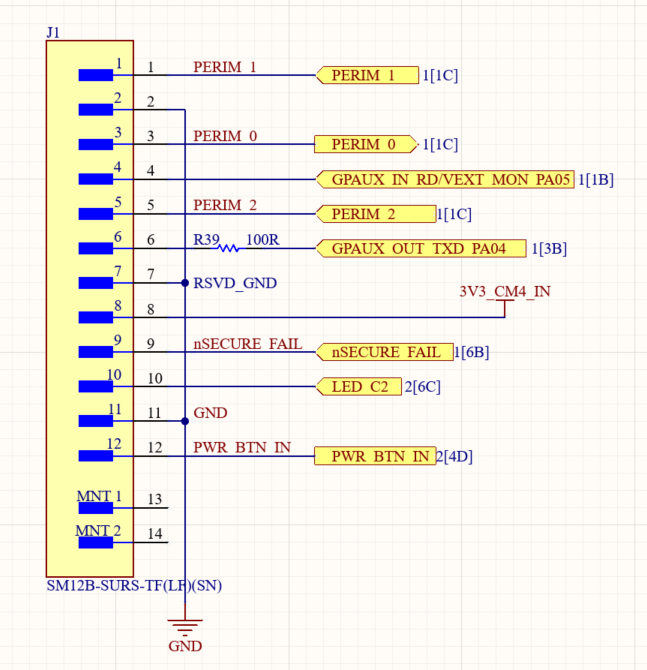
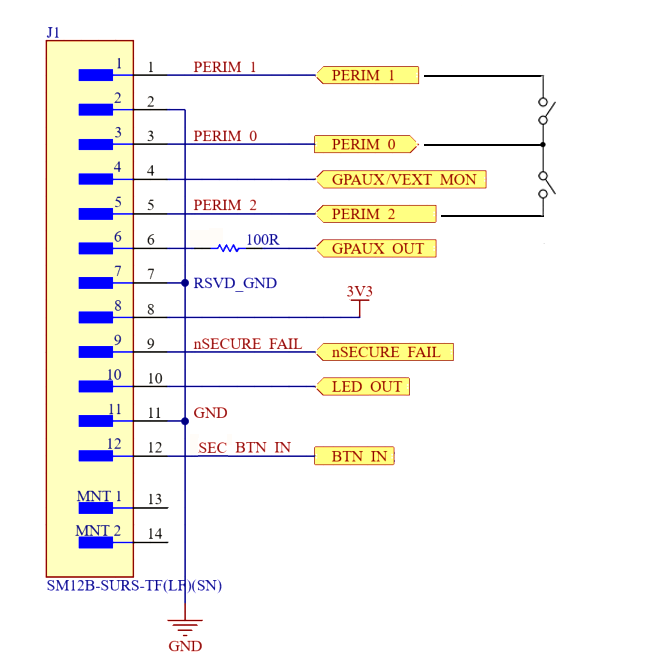
Zk5/HSM60/SEN500 J2 connector updates (#264)
* Add pinout corrections

* Added footnotes

* Forgot colon in footnote definition block

* Re-scale overly large GPIO pinout image

* missed closing double-quotes

* Hugo wouldn't take a width percentage, switching to embedded html

* One more try without double-quotes

* %22 left after .png

* Add in SEN refs and make consistent

diff --git a/content/hardware/components/sbb/index.md b/content/hardware/components/sbb/index.md
@@ -473,7 +473,28 @@ The pinout for J2:
 {{< /card >}}
 {{< /cardpane >}}
 
-To close a tamper loop, PERIM0 is the TX and PERIM1/PERIM2 are the RX. Connecting PERIM0 to either of the RX lines completes the tamper for the associated loop.  This is not simply a constant voltage, it is a pseudo random encoded sequence.
+| Pin Number | Pin Name | Description |
+| --- | --- | --- |
+| 1 | PERIM_1 | Tamper detection loop 1 receive |
+| 2 | GND | System ground |
+| 3 | PERIM_0 | Tamper detection transmit.  Connect this pin to PERIM_1 and/or PERIM_2 |
+| 4 | GPAUX_IN | Auxiliary input (digital or analog, 1k R in series) [^1] |
+| 5 | PERIM_2 | Tamper detection loop 2 receive |
+| 6 | GPAUX_OUT_TXD | Auxiliary output (digital, 100ohm R in series) [^1] |
+| 7 | RSVD_GND | Ground pin do not use (reserved) |
+| 8 | 3V3 | 3.3V output from HSM60 voltage regulator. Powered from 5V, on when Pi is shut down [^2] |
+| 9 | nSECURE_FAIL | Open drain security fault indicator; 12V max |
+| 10 | LED_OUT | Open drain blue LED indicator; 12V max |
+| 11 | GND | System ground |
+| 12 | PWR_BTN_IN | Secure button input. 3.3V max. Connect between the pin and ground |
+
+- Tamper detection pins (pins 1, 3, 5): To close a tamper loop, PERIM0 is the TX and PERIM1/PERIM2 are the RX.  So connecting PERIM0 to either of the RX lines completes the tamper for the associated loop.  This is not simply a constant voltage, it is a pseudo random encoded sequence. Breaking this loop will trigger a tamper detection security event
+- GPAUX pins (pins 4, 6): these are general purpose auxiliary pins passed through from the HSM60.  These pins are currently reserved for future use
+- 3V3 power (pin 8): This is the 3.3V power output that comes from the Raspberry Pi Compute Module
+- Security indicator signals (pins 9, 10): These are typically used to drive LEDs which indicate the security status of the device.  Note these pins are used together and typically drive a red/blue LED. These pins are currently reserved for future use
+- nSECURE_FAIL: indicates a security fault
+- If there is a security fault but the LED_C2 is still active, this means a noncritical security failure.  If the LED_C2 is not active at the same time this means a critical security fault and the system is not operational anymore
+- LED_C2:  Zymbit’s security status LED.  When being used with the SCM4 or CM5 + Interposer, this will blink a pattern to give its status (see [SCM LED Reference](https://docs.zymbit.com/troubleshooting/scm/#led-reference) for details)
 
 Perimeter 1:  To use perimeter loop 1 (connected to internal tamper switches) on the auxiliary connector, solder bridge the pads R120 where is reads PERIM1 CONNECT on the BOTTOM side of the board.  Because it is still connected to the tamper switches, to see a tamper event on this channel in this case, the tamper switches must be opened AND the auxiliary connection must also be broken.
 
@@ -500,23 +521,6 @@ Perimeter 2:  To use perimeter loop 2 on the auxiliary connector, cut the tab in
 
 Perimeter 0 is the transmit, and the associated perimeters 1 and 2 are the receive loops.
 
-#### Auxiliary Connector (J2)
-
-{{< cardpane >}}
-{{< card header="J2 Pinout" >}}
-{{< figure
-    src="j2_pinout.png"
-    alt="J2 Pinout"
-    caption=""
-    >}}
-{{< /card >}}
-{{< /cardpane >}}
-
-- For tamper detection pins (pins 1, 3, 5) please see the previous section
-- ZIO pins (pins 4, 6) these are general purpose auxiliary pins passed through from the Zymbit HSM.  These pins are currently reserved for future use
-- 3V3 power (pin 8): This is the 3.3V power output that comes from the Raspberry Pi Compute Module
-- Security indicator signals (pins 9, 10): These are the signals used to drive the LEDs on the front panel.  Please see LED indicator section for details.  Example use to drive LEDs:
-- Power button input:  This pin connects to the Power button pin on the compute module after going through the HSM.  Pull this pin low to activate.  Please see the power button section for functionality.
     
 {{< cardpane >}}
 {{< card header="Security Header Pins" >}}
@@ -670,4 +674,10 @@ If the user has other IO on the normal I2C lines (GPIO2 and GPIO3) of the 40-pin
 - [Raspberry Pi CM4 Datasheet](https://datasheets.raspberrypi.com/cm4/cm4-datasheet.pdf)
 - [Raspberry Pi Compute Module 5 IO Board Datasheet](https://datasheets.raspberrypi.com/cm5/cm5io-datasheet.pdf)
 - [Raspberry Pi CM5 Datasheet](https://datasheets.raspberrypi.com/cm5/cm5-datasheet.pdf)
+
+
+### Footnotes
+
+[^1]: Firmware revision dependent.
+[^2]: Caution: Incorrect use may cause damage to the Zymbit HSM and/or possibly the host. This is not from the Pi 3V3. It comes from the Zymbit HSM voltage regulator. 20 mA output only.
 

diff --git a/content/hardware/modules/hsm60/index.md b/content/hardware/modules/hsm60/index.md
@@ -185,19 +185,18 @@ This connector is a 12 pin JST SURS connector ([SM12B-SURS-TF(LF)(SN)](https://w
 
 | Pin Number | Pin Name | Description |
 | --- | --- | --- |
-| 1 | PERIM_1 | Tamper detection loop 1 recieve |
+| 1 | PERIM_1 | Tamper detection loop 1 receive |
 | 2 | GND | System ground |
 | 3 | PERIM_0 | Tamper detection transmit.  Connect this pin to PERIM_1 and/or PERIM_2 |
-| 4 | GPAUX_IN_RD/
-VEXT_MON | General purpose auxiliary recieve (future use) and external voltage monitor pin (future use) |
-| 5 | PERIM_2 | Tamper detection loop 2 recieve |
-| 6 | GPAUX_OUT_TXD | General purpose auxiliary transmit (future use) |
-| 7 | RSVD_GND | Ground pin that is reserved for potential future use. |
-| 8 | 3V3_CM4 | 3.3V output from the Raspberry Pi |
-| 9 | nSECURE_FAIL | Zymbit security fault indicator |
-| 10 | LED_C2 | Zymbit’s security status LED |
+| 4 | GPAUX_IN | Auxiliary input (digital or analog, 1k R in series) [^1] |
+| 5 | PERIM_2 | Tamper detection loop 2 receive |
+| 6 | GPAUX_OUT_TXD | Auxiliary output (digital, 100ohm R in series) [^1] |
+| 7 | RSVD_GND | Ground pin do not use (reserved) |
+| 8 | 3V3 | 3.3V output from HSM60 voltage regulator. Powered from 5V, on when Pi is shut down [^2] |
+| 9 | nSECURE_FAIL | Open drain security fault indicator; 12V max |
+| 10 | LED_OUT | Open drain blue LED indicator; 12V max |
 | 11 | GND | System ground |
-| 12 | PWR_BTN_IN | Replicates power button function of Pi 5 power button.  Active low. |
+| 12 | PWR_BTN_IN | Secure button input. 3.3V max. Connect between the pin and ground |
 
 - Tamper detection pins (pins 1, 3, 5): To close a tamper loop, PERIM0 is the TX and PERIM1/PERIM2 are the RX.  So connecting PERIM0 to either of the RX lines completes the tamper for the associated loop.  This is not simply a constant voltage, it is a pseudo random encoded sequence. Breaking this loop will trigger a tamper detection security event
 - GPAUX pins (pins 4, 6): these are general purpose auxiliary pins passed through from the Zymbit HSM.  These pins are currently reserved for future use
@@ -228,6 +227,7 @@ Zymbit makes a breakout cable that exposes the pins of the Auxiliary connector (
 {{< figure
     src="bob_pinout.jpg"
     alt="Breakout Board Pin Assignment"
+    width=50%
     caption=""
     >}}
 {{< /card >}}
@@ -256,4 +256,9 @@ Zymbit makes a breakout cable that exposes the pins of the Auxiliary connector (
 Power up the Pi and you will see a blue LED blinking rapidly and consistently (5 blinks per second). This indicates the HSM is operational but not configured.
 
 If the blue LED blinks erratically, or not at all, then there is an installation error and you should check your connections.
+
+### Footnotes
+
+[^1]: Firmware revision dependent. 
+[^2]: Caution: Incorrect use may cause damage to the Zymbit HSM and/or possibly the host. This is not from the Pi 3V3. It comes from the Zymbit HSM voltage regulator. 20 mA output only.
 

diff --git a/content/reference/cad/zymkey5/index.md b/content/reference/cad/zymkey5/index.md
@@ -5,7 +5,7 @@ description: "3D Step Model, drawings, and GPIO pinout for the ZYMKEY5"
 aliases:
     - /technical_reference/cad/zymkey5/
 date: ""
-lastmod: "2026-08-07"
+lastmod: "2026-08-20"
 draft: false
 images: []
 weight: 10
@@ -40,18 +40,18 @@ Mates with [12SUR-32S](https://www.digikey.com/en/products/detail/jst-sales-amer
 
 | Pin Number | Pin Name | Description |
 | --- | --- | --- |
-| 1 | PERIM_1 | Tamper detection loop 1 recieve |
+| 1 | PERIM_1 | Tamper detection loop 1 receive |
 | 2 | GND | System ground |
 | 3 | PERIM_0 | Tamper detection transmit.  Connect this pin to PERIM_1 and/or PERIM_2 |
-| 4 | GPAUX_IN_RD | VEXT_MON | General purpose auxiliary receive and external voltage monitor pin (future use) |
+| 4 | GPAUX_IN | Auxiliary input (digital or analog, 1k R in series) [^1] |
 | 5 | PERIM_2 | Tamper detection loop 2 receive |
-| 6 | GPAUX_OUT_TXD | General purpose auxiliary transmit (future use) |
-| 7 | RSVD_GND | Ground pin that is reserved for potential (future use) |
-| 8 | 3V3_CM4 | 3.3V output from the Raspberry Pi |
-| 9 | nSECURE_FAIL | Zymbit security fault indicator |
-| 10 | LED_C2 | Zymbit’s security status LED |
+| 6 | GPAUX_OUT_TXD | Auxiliary output (digital, 100ohm R in series) [^1] |
+| 7 | RSVD_GND | Ground pin do not use (reserved) |
+| 8 | 3V3 | 3.3V output from Zymkey voltage regulator. Powered from 5V, on when Pi is shut down [^2] |
+| 9 | nSECURE_FAIL | Open drain security fault indicator; 12V max |
+| 10 | LED_OUT | Open drain blue LED indicator; 12V max |
 | 11 | GND | System ground |
-| 12 | PWR_BTN_IN | Replicates power button function of Pi 5 power button.  Active low. (future use) |
+| 12 | PWR_BTN_IN | Secure button input. 3.3V max. Connect between the pin and ground |
 
 - Tamper detection pins (pins 1, 3, 5): To close a tamper loop, PERIM0 is the TX and PERIM1/PERIM2 are the RX.  So connecting PERIM0 to either of the RX lines completes the tamper for the associated loop.  This is not simply a constant voltage, it is a pseudo random encoded sequence. Breaking this loop will trigger a tamper detection security event
 - GPAUX pins (pins 4, 6): these are general purpose auxiliary pins passed through from the ZYMKEY5.  These pins are currently reserved for future use
@@ -112,8 +112,14 @@ Same as Zymkey4.
 {{< figure
     src="ZK4-pinout.png"
     alt="ZYMKEY5 GPIO Pinout"
+    width=50%
     caption=""
     >}}
 {{< /card >}}
 {{< /cardpane >}}
 
+
+### Footnotes
+
+[^1]: Firmware revision dependent. 
+[^2]: Caution: Incorrect use may cause damage to the Zymbit HSM and/or possibly the host. This is not from the Pi 3V3. It comes from the Zymbit HSM voltage regulator. 20 mA output only. 
